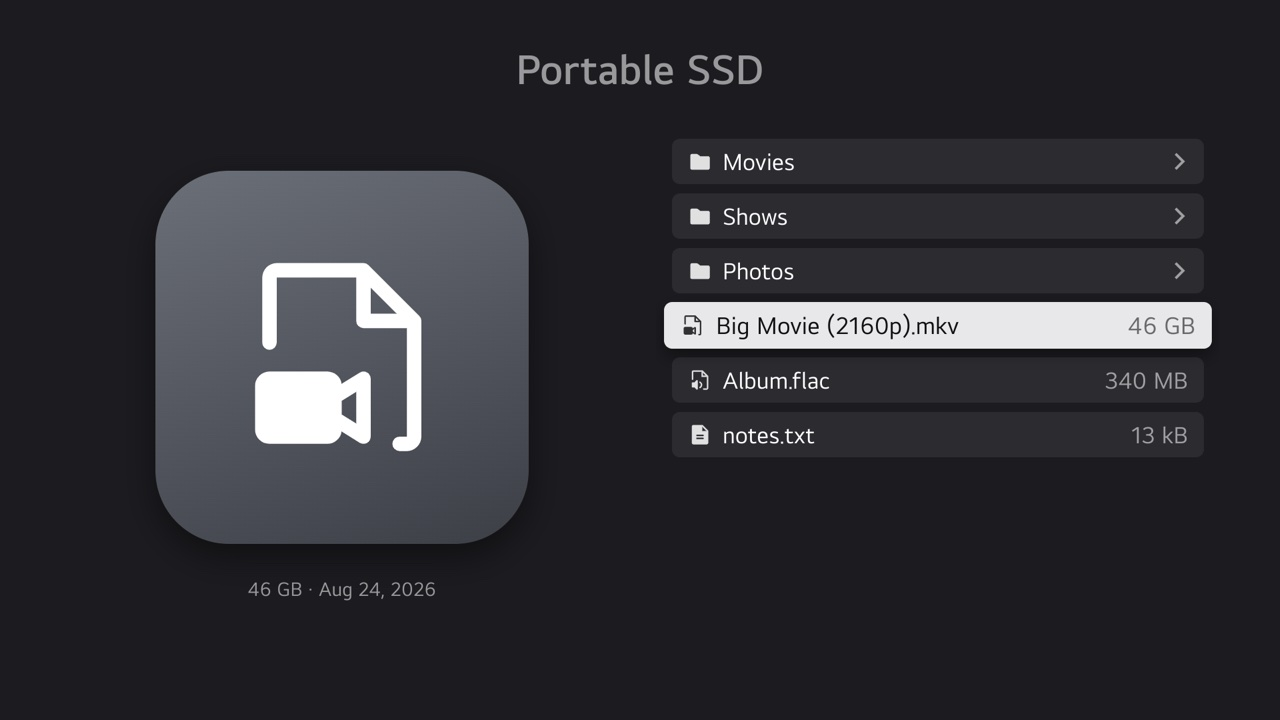
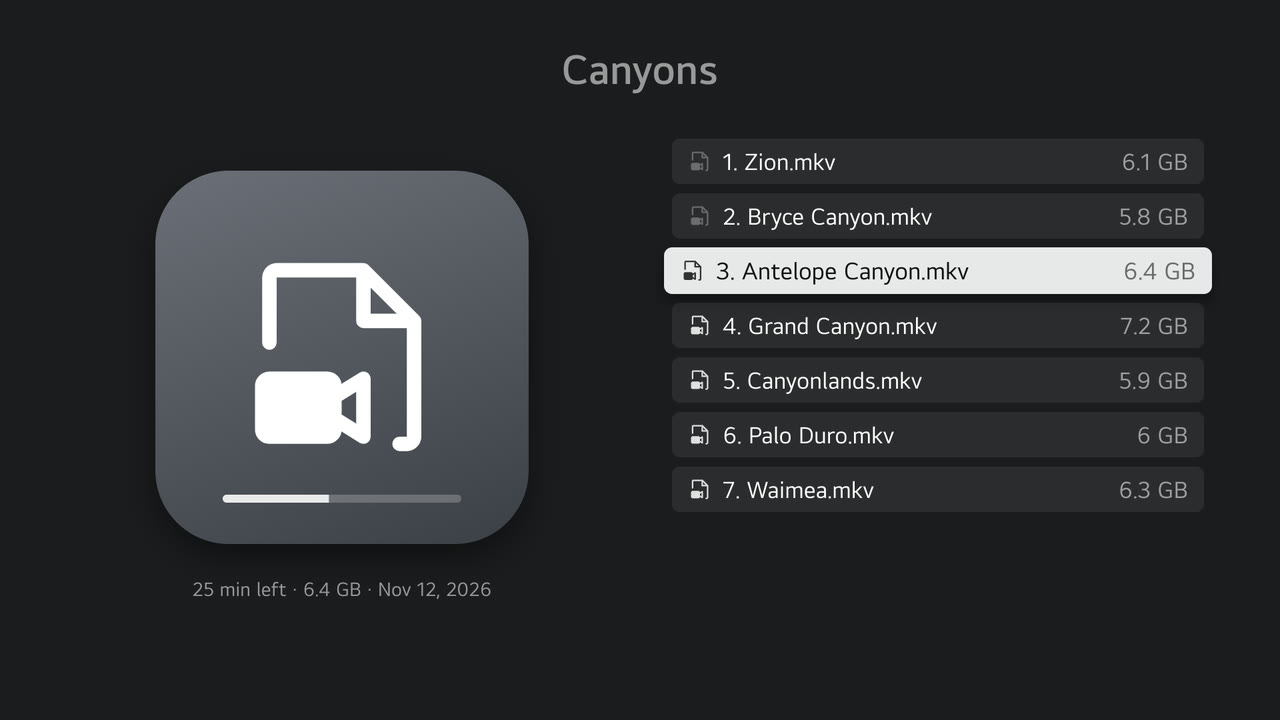
Retake the screenshots and add the player

diff --git a/README.md b/README.md
@@ -10,7 +10,8 @@ An ad-free home screen for rooted LG webOS TVs.
 
 | | |
 | --- | --- |
-| ![Wallpaper settings](docs/wallpapers.jpg) | ![Files](docs/files.jpg) |
+| ![All apps](docs/apps.jpg) | ![Files with a watched video and a resume bar](docs/files.jpg) |
+| ![Player with the audio track menu](docs/player.jpg) | ![Wallpaper settings](docs/wallpapers.jpg) |
 
 ## Features
 
@@ -28,7 +29,7 @@ An ad-free home screen for rooted LG webOS TVs.
 - webOS 25 or newer. Tested on one TV, an LG OLED C3 with webOS 11.2 (platform version).
 
 Use at your own risk. Firmware updates can remove root, so keep automatic updates off; if LG Home comes back after one,
-install Sei again.
+install Sei again. Don't combine it with other home replacements, such as Home Chooser or Luma's takeover.
 
 ## Install
 
